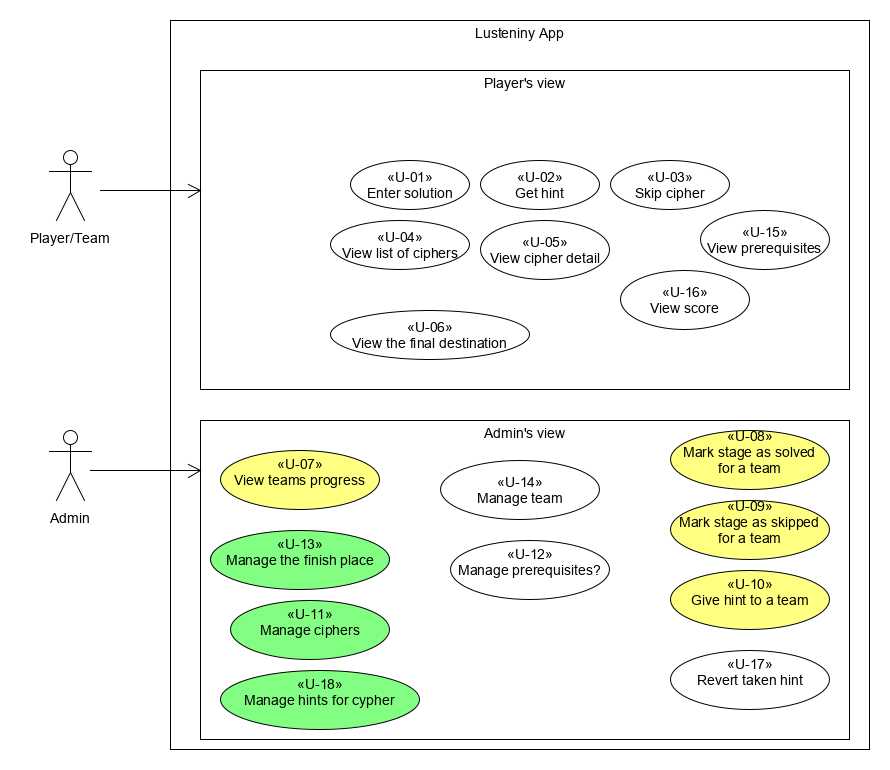
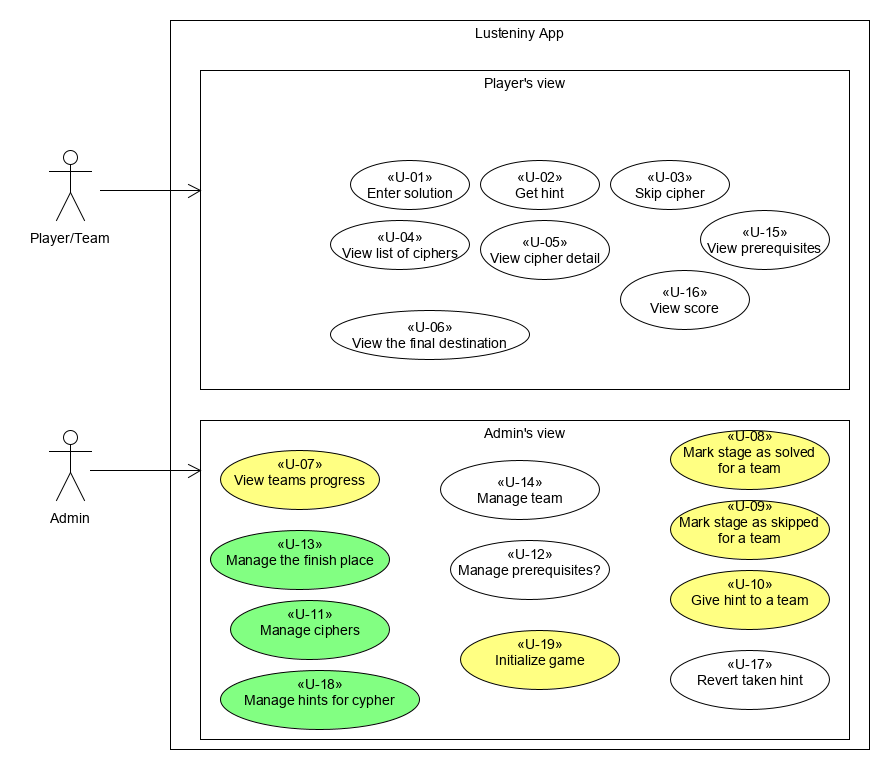
Document for U-19 - Initialize game use case

Changed region(s): [[0.5157, 0.8104, 0.6978, 0.9039]]

diff --git a/doc/U-19_Initialize_game.md b/doc/U-19_Initialize_game.md
@@ -1,0 +1,21 @@
+# U-19: Initialize game
+**Actor:** Admin
+
+**Preconditions:** -
+
+**Postconditions:**
+
+ - Team status for every cypher is reset (first is in status pending)
+ - Every team has no taken hint
+ - Teams have 0 points
+
+## Main Scenario
+
+ 1. **Admin:** decides to start the game
+ 2. **System:** asks for confirmation
+ 3. **Team:** confirm the action
+ 4. **System:** reset game data
+
+## Extension
+3. Submit:
+   1. If user cancels the action, nothing happens
